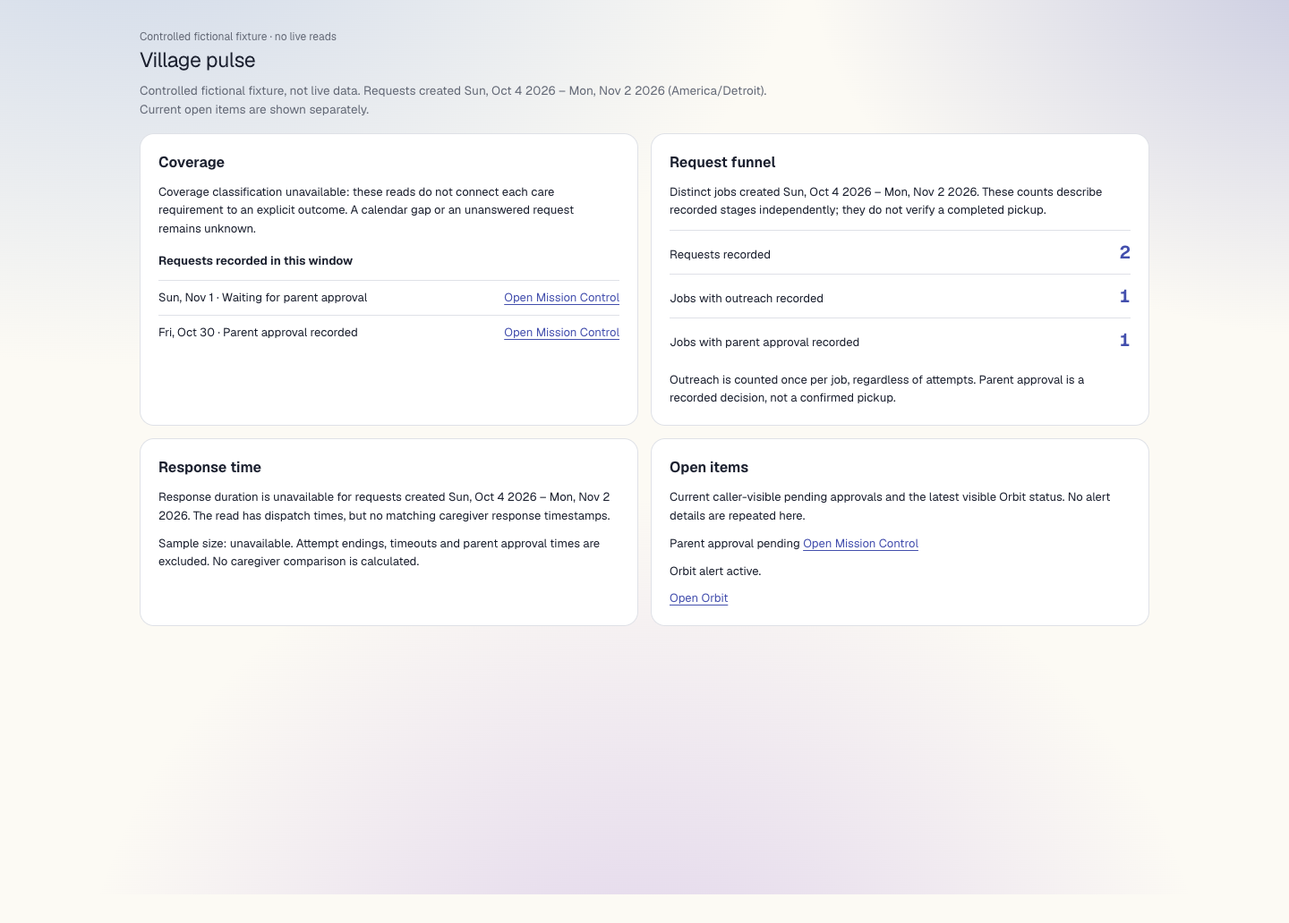
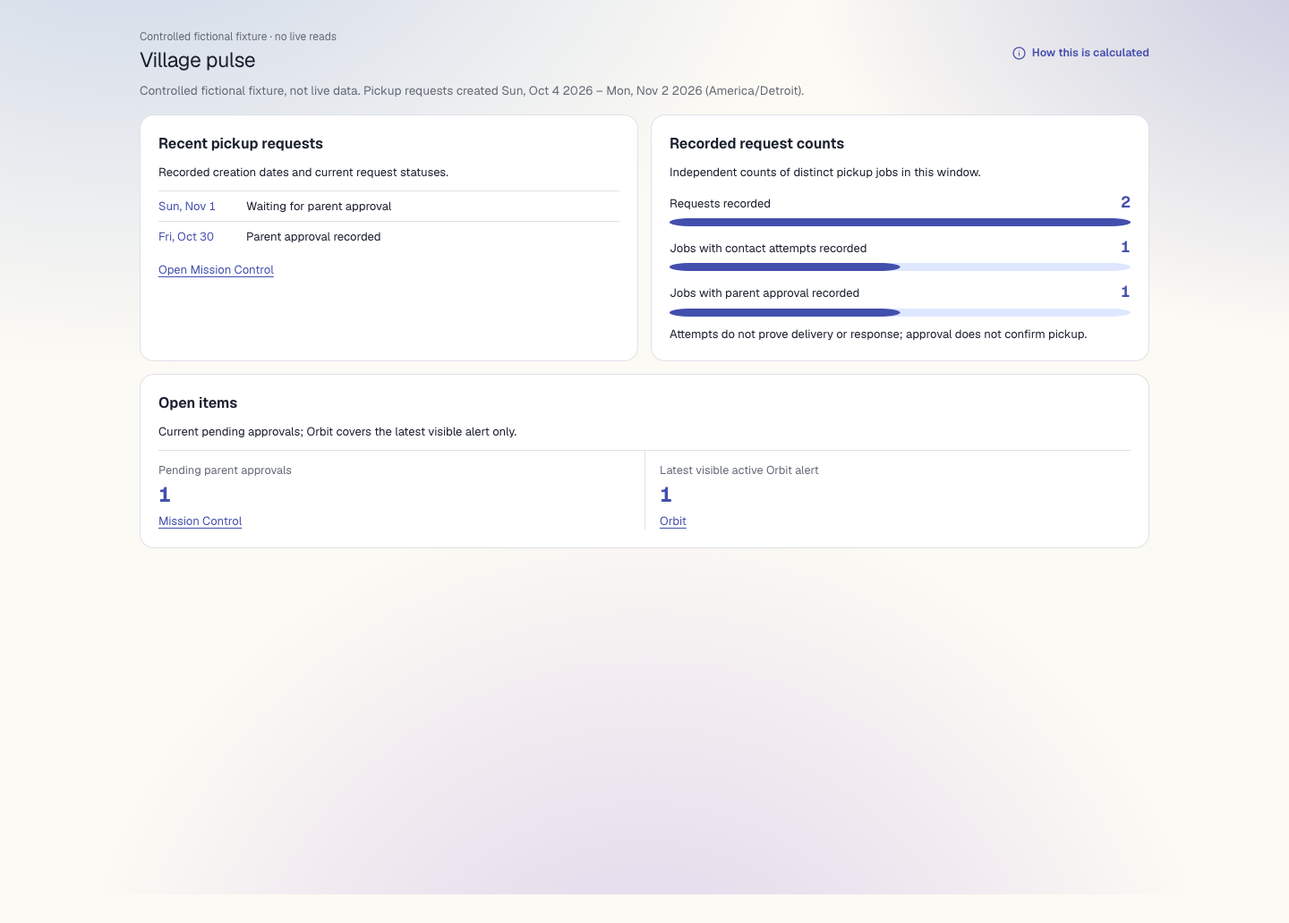
Refine Village pulse and reject stale Orbit status

diff --git a/web/src/features/mission-control/pulse/VillagePulse.tsx b/web/src/features/mission-control/pulse/VillagePulse.tsx
@@ -4,8 +4,9 @@ import { useOrbit, useOrbitState } from '@/features/orbit/runtime'
 import type { OrbitController } from '@/features/orbit/controller'
 import type { StoredMissionControl, StoredRun } from '@/lib/frontendData/deliveredAdapter'
 import { formatDay, localDay } from '@/features/calendar/time'
-import { Surface } from '@/components/fg/primitives'
+import { Icon, Surface } from '@/components/fg/primitives'
 import { jobCreatedAt, pulseCohort, pulseWindow, recordedJobStatus } from './model'
+import { orbitPulseRead } from './orbitPulseRead'
 import './village-pulse.css'
 
 export type PulseRead<T> = { kind: 'loading' } | { kind: 'ready'; value: T } | { kind: 'refused' } | { kind: 'failed' }
@@ -19,6 +20,18 @@ function ReadBoundary({ state, subject }: { state: PulseRead<unknown>; subject: 
   return null
 }
 
+function CalculationHelp() {
+  return <details className="vp-help">
+    <summary><Icon.info /><span>How this is calculated</span></summary>
+    <div className="vp-help-content" role="note">
+      <p><strong>Recent requests.</strong> Only visible pickup jobs with a recorded creation time in the last 30 America/Detroit calendar dates enter the dated list. Undated jobs are counted separately. These reads do not link care requirements to explicit outcomes, so they cannot classify coverage.</p>
+      <p><strong>Recorded counts.</strong> Each bar counts distinct jobs from that same cohort. A job counts once if it has a recorded contact attempt, and once if it has a parent approval confirmation. Attempt time does not prove delivery or response; approval does not confirm pickup.</p>
+      <p><strong>Response time.</strong> No matching caregiver response timestamp is exposed. Attempt endings, timeouts and parent approval times cannot supply one, so no duration or sample is calculated.</p>
+      <p><strong>Open items.</strong> Pending approvals use current visible pickup job status. Orbit shows only the latest visible alert’s status. A failed or refused read has no current count, even when an older status remains cached.</p>
+    </div>
+  </details>
+}
+
 /** All quantities come from caller-visible, recorded rows. This view makes no read or mutation. */
 export function VillagePulseView({ jobs, orbit, now, sourceLabel = 'Stored demo records visible to this perspective' }: PulseProps) {
   const window = pulseWindow(now)
@@ -26,40 +39,41 @@ export function VillagePulseView({ jobs, orbit, now, sourceLabel = 'Stored demo 
   const cohort = jobs.kind === 'ready' ? pulseCohort(jobs.value, window) : null
   const pending = jobs.kind === 'ready' ? jobs.value.filter(run => run.job.type === 'PICKUP' && run.job.status === 'awaiting_approval') : []
   const activeOrbit = orbit.kind === 'ready' && orbit.value.status === 'ACTIVE'
+  const counts = cohort ? [
+    { label: 'Requests recorded', value: cohort.requests },
+    { label: 'Jobs with contact attempts recorded', value: cohort.withContactAttempts },
+    { label: 'Jobs with parent approval recorded', value: cohort.withParentApproval },
+  ] : []
   return <section className="vp" aria-label="Village pulse">
-    <header className="vp-heading"><h2>Village pulse</h2><p>{sourceLabel}. Requests created {label} (America/Detroit). Current open items are shown separately.</p></header>
+    <header className="vp-heading"><div><h2>Village pulse</h2><p>{sourceLabel}. Pickup requests created {label} (America/Detroit).</p></div><CalculationHelp /></header>
     <div className="vp-grid">
-      <Surface className="vp-panel" role="region" aria-label="Coverage"><h3>Coverage</h3>
+      <Surface className="vp-panel" role="region" aria-label="Recent pickup requests"><h3>Recent pickup requests</h3>
         <ReadBoundary state={jobs} subject="request records" />
         {jobs.kind === 'ready' && <>
-          <p>Coverage classification unavailable: these reads do not connect each care requirement to an explicit outcome. A calendar gap or an unanswered request remains unknown.</p>
-          <h4>Requests recorded in this window</h4>
-          {!cohort?.jobs.length ? <p className="vp-empty">No dated pickup requests are available in this window.</p> : <ul className="vp-requests">{cohort.jobs.map(run => <li key={run.job.id}><span><time dateTime={jobCreatedAt(run)!}>{formatDay(localDay(jobCreatedAt(run)!))}</time> · {recordedJobStatus(run.job.status)}</span><a href="#/mission-control">Open Mission Control</a></li>)}</ul>}
-          {!!cohort?.undated && <p>{cohort.undated} visible request {cohort.undated === 1 ? 'has' : 'have'} no recorded creation time and cannot enter this dated view.</p>}
+          <p>Recorded creation dates and current request statuses.</p>
+          {!cohort?.jobs.length ? <p className="vp-empty">No dated pickup requests are available in this window.</p> : <>
+            <ul className="vp-requests">{cohort.jobs.slice(0, 5).map(run => <li key={run.job.id}><time dateTime={jobCreatedAt(run)!}>{formatDay(localDay(jobCreatedAt(run)!))}</time><span>{recordedJobStatus(run.job.status)}</span></li>)}</ul>
+            {cohort.jobs.length > 5 && <p>{cohort.jobs.length - 5} more dated {cohort.jobs.length - 5 === 1 ? 'request' : 'requests'} in this window.</p>}
+            <a href="#/mission-control">Open Mission Control</a>
+          </>}
+          {!!cohort?.undated && <p>{cohort.undated} visible pickup {cohort.undated === 1 ? 'request has' : 'requests have'} no recorded creation time and cannot enter this dated list.</p>}
         </>}
       </Surface>
 
-      <Surface className="vp-panel" role="region" aria-label="Request funnel"><h3>Request funnel</h3>
+      <Surface className="vp-panel" role="region" aria-label="Recorded request counts"><h3>Recorded request counts</h3>
         <ReadBoundary state={jobs} subject="request records" />
         {jobs.kind === 'ready' && (cohort?.jobs.length ? <>
-          <p>Distinct jobs created {label}. These counts describe recorded stages independently; they do not verify a completed pickup.</p>
-          <dl className="vp-counts"><div><dt>Requests recorded</dt><dd>{cohort.requests}</dd></div><div><dt>Jobs with outreach recorded</dt><dd>{cohort.withOutreach}</dd></div><div><dt>Jobs with parent approval recorded</dt><dd>{cohort.withParentApproval}</dd></div></dl>
-          <p>Outreach is counted once per job, regardless of attempts. Parent approval is a recorded decision, not a confirmed pickup.</p>
+          <p>Independent counts of distinct pickup jobs in this window.</p>
+          <dl className="vp-counts">{counts.map(metric => <div key={metric.label}><div className="vp-count-head"><dt>{metric.label}</dt><dd>{metric.value}</dd></div><svg viewBox="0 0 100 9" preserveAspectRatio="none" role="img" aria-label={`${metric.label}: ${metric.value} of ${cohort.requests} jobs`}><rect className="vp-bar-track" x="0" y="0" width="100" height="9" rx="4.5"/><rect className="vp-bar-fill" x="0" y="0" width={metric.value / cohort.requests * 100} height="9" rx="4.5"/></svg></div>)}</dl>
+          <p>Attempts do not prove delivery or response; approval does not confirm pickup.</p>
         </> : <p className="vp-empty">No dated pickup requests are available in this window.</p>)}
       </Surface>
 
-      <Surface className="vp-panel" role="region" aria-label="Response time"><h3>Response time</h3>
-        <ReadBoundary state={jobs} subject="request records" />
-        {jobs.kind === 'ready' && (cohort?.jobs.length ? <><p>Response duration is unavailable for requests created {label}. The read has dispatch times, but no matching caregiver response timestamps.</p><p>Sample size: unavailable. Attempt endings, timeouts and parent approval times are excluded. No caregiver comparison is calculated.</p></> : <p className="vp-empty">No dated pickup requests are available in this window.</p>)}
-      </Surface>
-
-      <Surface className="vp-panel" role="region" aria-label="Open items"><h3>Open items</h3>
-        <p>Current caller-visible pending approvals and the latest visible Orbit status. No alert details are repeated here.</p>
-        <ReadBoundary state={jobs} subject="approval records" />
-        {jobs.kind === 'ready' && pending.length > 0 && <ul className="vp-open">{pending.map(run => <li key={run.job.id}>Parent approval pending <a href="#/mission-control">Open Mission Control</a></li>)}</ul>}
-        <ReadBoundary state={orbit} subject="Orbit status" />
-        {activeOrbit && <p className="vp-open">Orbit alert active. <a href="#/orbit">Open Orbit</a></p>}
-        {jobs.kind === 'ready' && !pending.length && orbit.kind === 'ready' && !activeOrbit && <p className="vp-empty">No records are available to this view. The Orbit read covers the latest visible alert only.</p>}
+      <Surface className="vp-panel vp-panel-open" role="region" aria-label="Open items"><h3>Open items</h3>
+        <p>Current pending approvals; Orbit covers the latest visible alert only.</p>
+        <div className="vp-tiles"><div className="vp-tile"><span>Pending parent approvals</span><ReadBoundary state={jobs} subject="approval records" />{jobs.kind === 'ready' && <><strong>{pending.length}</strong><a href="#/mission-control">Mission Control</a></>}</div>
+          <div className="vp-tile"><span>Latest visible active Orbit alert</span><ReadBoundary state={orbit} subject="Orbit status" />{orbit.kind === 'ready' && <><strong>{activeOrbit ? 1 : 0}</strong><a href="#/orbit">Orbit</a></>}</div></div>
+        {jobs.kind === 'ready' && !pending.length && orbit.kind === 'ready' && !activeOrbit && <p className="vp-empty">No current open item is available in these reads.</p>}
       </Surface>
     </div>
   </section>
@@ -67,10 +81,7 @@ export function VillagePulseView({ jobs, orbit, now, sourceLabel = 'Stored demo 
 
 function OrbitPulse({ controller, jobs, now }: { controller: OrbitController; jobs: PulseRead<StoredRun[]>; now: number }) {
   const state = useOrbitState(controller)
-  const orbit: PulseRead<PulseOrbit> = state.phase === 'loading' ? { kind: 'loading' }
-    : state.phase === 'unavailable' ? { kind: /not shared|unauthorized/i.test(state.error) ? 'refused' : 'failed' }
-      : { kind: 'ready', value: { alertId: state.status?.alertId ?? null, status: state.status?.status ?? null } }
-  return <VillagePulseView jobs={jobs} orbit={orbit} now={now} />
+  return <VillagePulseView jobs={jobs} orbit={orbitPulseRead(state)} now={now} />
 }
 
 export function VillagePulse({ result }: { result: { loading: boolean; error?: { message: string }; data?: { frontendSnapshot: StoredMissionControl } } }) {

diff --git a/web/src/features/mission-control/pulse/pulse.test.tsx b/web/src/features/mission-control/pulse/pulse.test.tsx
@@ -1,8 +1,10 @@
 // @vitest-environment jsdom
 import { describe, expect, it } from 'vitest'
-import { render, screen, within } from '@testing-library/react'
+import { fireEvent, render, screen, within } from '@testing-library/react'
 import type { StoredRun } from '@/lib/frontendData/deliveredAdapter'
+import type { OrbitState } from '@/features/orbit/controller'
 import { VillagePulseView } from './VillagePulse'
+import { orbitPulseRead } from './orbitPulseRead'
 import { pulseCohort, pulseWindow, recordedJobStatus } from './model'
 
 function run(id: string, type = 'PICKUP', status = 'awaiting_approval', created = '2026-11-01T13:00:00Z', attempts = 1, approved = false): StoredRun {
@@ -15,46 +17,67 @@ function run(id: string, type = 'PICKUP', status = 'awaiting_approval', created 
 const now = Date.parse('2026-11-02T16:00:00Z')
 const orbit = { kind: 'ready' as const, value: { alertId: null, status: null } }
 
+function controllerState(error: string): Pick<OrbitState, 'phase' | 'status' | 'error'> {
+  // A refresh error leaves the previous ACTIVE status and phase intact in OrbitController.
+  return { phase: 'active', status: { alertId: 'cached-private-alert', status: 'ACTIVE' } as OrbitState['status'], error }
+}
+
 describe('Village pulse: caller-visible recorded measures', () => {
   it('uses one Detroit dated pickup-job cohort and counts distinct jobs, not attempts', () => {
     const window = pulseWindow(now)
     expect(window).toEqual({ from: '2026-10-04', through: '2026-11-02' })
     const jobs = [run('one'), run('one'), run('two', 'PICKUP', 'confirmed', '2026-10-04T04:00:00Z', 0, true), run('other', 'INVITATION'), run('old', 'PICKUP', 'pending', '2026-10-04T03:59:59Z')]
-    expect(pulseCohort(jobs, window)).toMatchObject({ requests: 2, withOutreach: 1, withParentApproval: 1 })
+    expect(pulseCohort(jobs, window)).toMatchObject({ requests: 2, withContactAttempts: 1, withParentApproval: 1 })
   })
 
-  it('labels approval as parent approval and does not derive a response duration from timeout', () => {
+  it('uses conservative attempt wording and independent accessible bars', () => {
     expect(recordedJobStatus('confirmed')).toBe('Parent approval recorded')
+    expect(recordedJobStatus('discovering')).toBe('Coordination in progress')
     render(<VillagePulseView now={now} jobs={{ kind: 'ready', value: [run('one')] }} orbit={orbit} />)
-    const response = screen.getByRole('region', { name: 'Response time' })
-    expect(within(response).getByText(/no matching caregiver response timestamps/i)).toBeInTheDocument()
-    expect(within(response).getByText(/Sample size: unavailable/)).toBeInTheDocument()
-    expect(response.textContent).not.toMatch(/60 minutes|1 hour/)
-    expect(screen.getByRole('region', { name: 'Coverage' })).toHaveTextContent('Coverage classification unavailable')
+    const counts = screen.getByRole('region', { name: 'Recorded request counts' })
+    expect(within(counts).getByText('Jobs with contact attempts recorded')).toBeInTheDocument()
+    expect(within(counts).getAllByRole('img')).toHaveLength(3)
+    expect(counts).toHaveTextContent('Attempts do not prove delivery or response')
+    expect(screen.queryByRole('region', { name: 'Response time' })).not.toBeInTheDocument()
+    fireEvent.click(screen.getByText('How this is calculated'))
+    expect(screen.getByRole('note')).toHaveTextContent('No matching caregiver response timestamp is exposed')
   })
 
   it('keeps panel refusals and failures distinct from empty data', () => {
     render(<VillagePulseView now={now} jobs={{ kind: 'refused' }} orbit={{ kind: 'failed' }} />)
-    expect(screen.getAllByText(/Access to request records is refused/)).toHaveLength(3)
+    expect(screen.getAllByText(/Access to request records is refused/)).toHaveLength(2)
     expect(screen.getByText(/Couldn’t load Orbit status/)).toBeInTheDocument()
-    expect(screen.queryByText(/No records are available/)).not.toBeInTheDocument()
+    expect(screen.queryByText(/No dated pickup requests/)).not.toBeInTheDocument()
   })
 
   it('keeps loading, empty, and failed reads explicit per panel', () => {
     const view = render(<VillagePulseView now={now} jobs={{ kind: 'loading' }} orbit={{ kind: 'loading' }} />)
-    // Open items reports its job and Orbit reads separately.
-    expect(screen.getAllByRole('status')).toHaveLength(5)
+    expect(screen.getAllByRole('status')).toHaveLength(4)
     view.rerender(<VillagePulseView now={now} jobs={{ kind: 'ready', value: [] }} orbit={orbit} />)
-    expect(screen.getAllByText('No dated pickup requests are available in this window.')).toHaveLength(3)
+    expect(screen.getAllByText('No dated pickup requests are available in this window.')).toHaveLength(2)
     view.rerender(<VillagePulseView now={now} jobs={{ kind: 'failed' }} orbit={{ kind: 'failed' }} />)
-    expect(screen.getAllByRole('alert')).toHaveLength(5)
+    expect(screen.getAllByRole('alert')).toHaveLength(4)
     expect(screen.queryByText('Requests recorded')).not.toBeInTheDocument()
   })
 
-  it('shows only an active Orbit status link, never alert payload', () => {
+  it('rejects cached ACTIVE Orbit status after a refresh failure or refusal', () => {
+    for (const [error, kind] of [["Couldn't load Orbit right now.", 'failed'], ["This isn't shared with you.", 'refused']] as const) {
+      const result = orbitPulseRead(controllerState(error))
+      expect(result).toEqual({ kind })
+      const view = render(<VillagePulseView now={now} jobs={{ kind: 'ready', value: [] }} orbit={result} />)
+      const items = screen.getByRole('region', { name: 'Open items' })
+      expect(within(items).getByRole('alert')).toBeInTheDocument()
+      expect(items).not.toHaveTextContent('cached-private-alert')
+      expect(within(items).queryByRole('link', { name: 'Orbit' })).not.toBeInTheDocument()
+      expect(within(items).queryByText('1')).not.toBeInTheDocument()
+      view.unmount()
+    }
+  })
+
+  it('shows only an active latest Orbit count and link, never alert payload', () => {
     render(<VillagePulseView now={now} jobs={{ kind: 'ready', value: [] }} orbit={{ kind: 'ready', value: { alertId: 'private-id', status: 'ACTIVE' } }} />)
     const items = screen.getByRole('region', { name: 'Open items' })
-    expect(within(items).getByRole('link', { name: 'Open Orbit' })).toHaveAttribute('href', '#/orbit')
+    expect(within(items).getByRole('link', { name: 'Orbit' })).toHaveAttribute('href', '#/orbit')
     expect(items.textContent).not.toContain('private-id')
   })
 })

diff --git a/web/src/features/mission-control/pulse/village-pulse.css b/web/src/features/mission-control/pulse/village-pulse.css
@@ -1,20 +1,38 @@
 .vp{margin:0 0 24px;color:var(--fg-ink)}
-.vp-heading{margin:0 0 16px;max-width:70ch}
+.vp-heading{display:flex;align-items:flex-start;justify-content:space-between;gap:16px;margin:0 0 16px}
 .vp-heading h2{margin:0 0 6px;font-size:1.45rem;letter-spacing:-.02em}
 .vp-heading p{margin:0;color:var(--fg-muted);font-size:.85rem;line-height:1.55}
+.vp-help{position:relative;flex:none;font-size:.78rem}
+.vp-help summary{display:inline-flex;align-items:center;gap:6px;cursor:pointer;color:var(--fg-primary);list-style:none;font-weight:600}
+.vp-help summary::-webkit-details-marker{display:none}
+.vp-help summary svg{width:17px;height:17px}
+.vp-help summary:focus-visible{outline:2px solid var(--fg-focus);outline-offset:3px}
+.vp-help-content{position:absolute;z-index:20;right:0;top:calc(100% + 10px);width:min(390px,calc(100vw - 32px));padding:16px;background:var(--fg-surface);color:var(--fg-ink);border:1px solid var(--fg-border);border-radius:12px;box-shadow:0 12px 30px color-mix(in oklch,var(--fg-ink) 14%,transparent)}
+.vp-help-content p{margin:0 0 10px;color:var(--fg-ink);font-size:.78rem;line-height:1.55}
+.vp-help-content p:last-child{margin-bottom:0}
 .vp-grid{display:grid;grid-template-columns:repeat(2,minmax(0,1fr));gap:14px}
-.vp-panel{display:grid;align-content:start;gap:11px;min-width:0}
+.vp-panel{display:grid;align-content:start;gap:10px;min-width:0}
 .vp-panel h3{margin:0;font-size:1rem;font-weight:650}
-.vp-panel h4{margin:5px 0 0;font-size:.83rem;font-weight:650}
-.vp-panel p,.vp-panel li{margin:0;font-size:.82rem;line-height:1.55}
+.vp-panel p,.vp-panel li{margin:0;font-size:.82rem;line-height:1.5}
 .vp-panel [role=alert]{color:var(--fg-danger-ink)}
 .vp-panel [role=status],.vp-empty{color:var(--fg-muted)}
-.vp-panel a{color:var(--fg-primary);text-decoration:underline;text-underline-offset:3px}
+.vp-panel a{color:var(--fg-primary);text-decoration:underline;text-underline-offset:3px;font-size:.82rem;width:fit-content}
 .vp-panel a:focus-visible{outline:2px solid var(--fg-focus);outline-offset:3px}
-.vp-requests,.vp-open{list-style:none;padding:0;margin:0;display:grid;gap:9px}
-.vp-requests li{display:flex;flex-wrap:wrap;justify-content:space-between;gap:5px 12px;border-top:1px solid var(--fg-border);padding-top:9px}
-.vp-counts{margin:0;display:grid;gap:0}
-.vp-counts>div{display:flex;align-items:baseline;justify-content:space-between;gap:12px;border-top:1px solid var(--fg-border);padding:9px 0}
+.vp-requests{list-style:none;padding:0;margin:0;display:grid}
+.vp-requests li{display:grid;grid-template-columns:90px minmax(0,1fr);gap:8px;border-top:1px solid var(--fg-border);padding:7px 0}
+.vp-requests time{color:var(--fg-primary);font-variant-numeric:tabular-nums}
+.vp-counts{margin:0;display:grid;gap:10px}
+.vp-counts>div{display:grid;gap:5px}
+.vp-count-head{display:flex;align-items:baseline;justify-content:space-between;gap:12px}
 .vp-counts dt{font-size:.82rem;line-height:1.4}
-.vp-counts dd{margin:0;font-size:1.25rem;font-weight:650;font-variant-numeric:tabular-nums;color:var(--fg-primary)}
-@media(max-width:720px){.vp-grid{grid-template-columns:1fr}}
+.vp-counts dd{margin:0;font-size:1.1rem;font-weight:650;font-variant-numeric:tabular-nums;color:var(--fg-primary)}
+.vp-counts svg{display:block;width:100%;height:9px}
+.vp-bar-track{fill:var(--fg-selection)}
+.vp-bar-fill{fill:var(--fg-primary)}
+.vp-panel-open{grid-column:1/-1}
+.vp-tiles{display:grid;grid-template-columns:repeat(2,minmax(0,1fr));gap:0;border-top:1px solid var(--fg-border)}
+.vp-tile{display:grid;align-content:start;gap:6px;min-width:0;padding:12px 0 0}
+.vp-tile+.vp-tile{border-left:1px solid var(--fg-border);padding-left:16px}
+.vp-tile>span{font-size:.8rem;color:var(--fg-muted)}
+.vp-tile>strong{font-size:1.45rem;line-height:1.1;color:var(--fg-primary);font-variant-numeric:tabular-nums}
+@media(max-width:720px){.vp-heading{display:block}.vp-help{margin-top:9px}.vp-help-content{position:static;width:auto;margin-top:8px}.vp-grid{grid-template-columns:1fr}.vp-panel-open{grid-column:auto}.vp-tiles{grid-template-columns:1fr}.vp-tile+.vp-tile{border-left:0;border-top:1px solid var(--fg-border);padding:12px 0 0;margin-top:12px}}

diff --git a/web/src/features/mission-control/pulse/model.ts b/web/src/features/mission-control/pulse/model.ts
@@ -25,7 +25,7 @@ export function pulseCohort(runs: StoredRun[], window: PulseWindow) {
   return {
     jobs,
     requests: jobs.length,
-    withOutreach: jobs.filter(run => run.attempts.some(attempt => Number.isFinite(Date.parse(attempt.at)))).length,
+    withContactAttempts: jobs.filter(run => run.attempts.some(attempt => Number.isFinite(Date.parse(attempt.at)))).length,
     withParentApproval: jobs.filter(run => Boolean(run.job.confirmation?.id)).length,
     undated: new Set(runs.filter(run => run.job.type === 'PICKUP' && !jobCreatedAt(run)).map(run => run.job.id)).size,
   }
@@ -34,7 +34,7 @@ export function pulseCohort(runs: StoredRun[], window: PulseWindow) {
 export function recordedJobStatus(status: string): string {
   return ({
     pending: 'Request recorded',
-    discovering: 'Outreach in progress',
+    discovering: 'Coordination in progress',
     awaiting_approval: 'Waiting for parent approval',
     confirmed: 'Parent approval recorded',
     failed: 'Coordination ended',

diff --git a/web/src/features/mission-control/pulse/orbitPulseRead.ts b/web/src/features/mission-control/pulse/orbitPulseRead.ts
@@ -1,0 +1,10 @@
+import type { OrbitState } from '@/features/orbit/controller'
+import type { PulseOrbit, PulseRead } from './VillagePulse'
+
+/** Refresh errors can leave a previous ACTIVE status in the controller. Never call it current. */
+export function orbitPulseRead(state: Pick<OrbitState, 'phase' | 'status' | 'error'>): PulseRead<PulseOrbit> {
+  if (state.error.trim()) return { kind: /isn't shared|not shared|unauthorized|read-only/i.test(state.error) ? 'refused' : 'failed' }
+  if (state.phase === 'unavailable') return { kind: 'failed' }
+  if (state.phase === 'loading') return { kind: 'loading' }
+  return { kind: 'ready', value: { alertId: state.status?.alertId ?? null, status: state.status?.status ?? null } }
+}

diff --git a/web/evidence/village-pulse/READ-INVENTORY.md b/web/evidence/village-pulse/READ-INVENTORY.md
@@ -4,9 +4,9 @@ All graph reads use the signed-in perspective's in-memory bearer through the exi
 
 | Proposed panel | Existing read and fields | Window and calculation | Decision |
 | --- | --- | --- | --- |
-| Coverage | `coordinationJobs` gives `id`, `status`, `idempotencyKey`, evaluations and confirmation; `jobTimeline` gives `JOB_CREATED` time. Calendar reads do not link a care requirement, its needed coverage period, and a completed outcome to a job. The key is not a public request-date field. | No defensible covered/pending/uncovered denominator or upcoming-request date exists. Show caller-visible requests **created** in the displayed Detroit date window with their recorded statuses. Do not classify a calendar gap, silence or absent confirmation as uncovered. | No coverage percentage or covered/pending/uncovered chart. Recent requests only. |
-| Request funnel | `coordinationJobs(childId)` IDs, `type`, current status and confirmation; `attempts(jobId)` IDs and dispatch `at`; `jobTimeline(jobId)` has `JOB_CREATED` at. The existing job query is extended to select the already-defined `type` field. | Cohort: distinct visible **PICKUP** jobs with a recorded `JOB_CREATED` on the last 30 Detroit calendar dates, inclusive. Count distinct jobs in the cohort; then independently count jobs with at least one recorded attempt and jobs with a recorded parent-approval confirmation. These are job counts, not attempt counts or verified pickups. Jobs without creation time cannot enter this dated cohort. | Supported as three clearly named counts, with no conversion claim. |
-| Response time | `attempts` exposes dispatch `at`, `closedAt`, `closedReason`; evaluations expose `acceptedVia` but no reply instant. `jobTimeline` has attempt opened/closed and parent `CONFIRMATION`, but no caregiver response event. | A duration requires dispatch and the matching caregiver response time. Attempt closure or timeout is not a response. No sample size or duration can be calculated. | Unavailable read gap; never substitute close or approval time. |
-| Open items | Jobs expose current `status`; `awaiting_approval` is explicitly waiting on a parent under `docs/contracts/pickup-job.md`. The Orbit controller's existing `orbitStatus` read exposes `alertId` and `status` for the **latest visible** alert. | Current caller-visible items, not a historical window. Show pending-approval jobs and the latest active Orbit status only. Link to Mission Control and Orbit. No alert message, photo, place, descriptors or controls. A null latest status cannot prove that no older active alert exists. | Supported with the latest-alert limit stated. |
+| Coverage / recent requests | `coordinationJobs` gives `id`, `status`, `idempotencyKey`, evaluations and confirmation; `jobTimeline` gives `JOB_CREATED` time. Calendar reads do not link a care requirement, its needed coverage period, and a completed outcome to a job. The key is not a public request-date field. | No defensible covered/pending/uncovered denominator or upcoming-request date exists. Show caller-visible requests **created** in the displayed Detroit date window with their recorded statuses. Do not classify a calendar gap, silence or absent confirmation as uncovered. | **Recent pickup requests** compact dated list only; no coverage percentage or classification. |
+| Recorded request counts | `coordinationJobs(childId)` IDs, `type`, current status and confirmation; `attempts(jobId)` IDs and attempt `at`; `jobTimeline(jobId)` has `JOB_CREATED` at. The existing job query is extended to select the already-defined `type` field. | Cohort: distinct visible **PICKUP** jobs with a recorded `JOB_CREATED` on the last 30 Detroit calendar dates, inclusive. Count distinct jobs in the cohort; then independently count jobs with at least one recorded contact attempt and jobs with a recorded parent-approval confirmation. The attempt timestamp proves an attempt was recorded, not delivery or response. These are job counts, not attempt counts or verified pickups. Jobs without creation time cannot enter this dated cohort. | Three independent horizontal bars, not conversion stages. |
+| Response time | `attempts` exposes attempt `at`, `closedAt`, `closedReason`; evaluations expose `acceptedVia` but no reply instant. `jobTimeline` has attempt opened/closed and parent `CONFIRMATION`, but no caregiver response event. | A duration requires an attempt/contact instant and the matching actual caregiver response time. Attempt closure or timeout is not a response. No sample size or duration can be calculated. | **Omitted** from the pulse; read gap explained in the accessible calculation disclosure and [proposed data contract](../../../docs/contracts/village-pulse-data.md). |
+| Open items | Jobs expose current `status`; `awaiting_approval` is explicitly waiting on a parent under `docs/contracts/pickup-job.md`. The Orbit controller's existing `orbitStatus` read exposes `alertId` and `status` for the **latest visible** alert. The controller can retain a cached status while a refresh puts an error in `state.error` without changing `phase`. | Current caller-visible items, not a historical window. Show a count tile for pending-approval jobs and a 0/1 tile for the latest visible active Orbit status. Error/refusal takes precedence over cached status, leaving no current count. Link to Mission Control and Orbit only on ready reads. No alert message, photo, place, descriptors or controls. A null latest status cannot prove that no older active alert exists. | Supported with the latest-alert limit stated and a failed/refused read state. |
 
-The dates and cohort are displayed in `America/Detroit`. A stored demo record is labelled as such. Each panel has its own loading, empty, refused and failed handling; an unavailable measure is never rendered as zero.
+The dates and cohort are displayed in `America/Detroit`. A stored demo record is labelled as such. Each panel has its own loading, empty, refused and failed handling; an unavailable measure is never rendered as zero. Detailed limits are also in the accessible “How this is calculated” disclosure.

diff --git a/docs/contracts/village-pulse-data.md b/docs/contracts/village-pulse-data.md
@@ -1,0 +1,38 @@
+# Village pulse demo data contract (proposed seed input)
+
+This is input for a later backend seed PR. It authorizes no schema, resolver, migration, reset, outreach, or database change in the Village pulse web PR. All people and records are fictional. Seed work must keep caller-scoped RLS and test-responder transport boundaries.
+
+## Display window and units
+
+- Provide roughly 30 America/Detroit calendar dates of fictional pickup coordination history for a parent such as Kendra viewing Nora. Store actual instants with offsets or UTC; the UI converts them to Detroit dates. Include a few records on both sides of a Detroit midnight and an older record outside the window to exercise the boundary.
+- Each request is one `PICKUP` coordination job with a stable ID, child, recorded `JOB_CREATED.at`, current status, and any recorded parent confirmation. Include a small mix of pending, discovering, awaiting approval, confirmed parent approval, and ended coordination; do not seed a pickup completion unless a separate recorded outcome supports it.
+- Contact attempts must attach to a job and retain their own ID, channel, recorded attempt instant, destination mode, and optional closure reason/time. A recorded attempt is not proof of delivery, contact, response, or pickup. Several attempts on one job must still count as one job in the pulse bar.
+- To support a future response-time measure, each actual caregiver response needs its own recorded response ID, matching attempt/job, responder identity visible under RLS, response kind, and **responseAt** instant. A timeout or no-answer closure must have no responseAt. The future UI should match dispatch/contact to that response, disclose the observation window and sample size, and avoid caregiver rankings.
+- If coverage is desired later, explicitly record each care requirement's child, required date/time window, and outcome evidence linked to a job. A calendar gap, free-time record, parent approval, or missing confirmation cannot by itself mean uncovered or covered.
+- Include a few parent approvals and non-approvals as explicit decisions. Do not translate approval into confirmed pickup. Preserve status history and event timestamps so the story can be audited.
+- For Open items, provide one current pending parent approval and optionally one active Orbit alert in a controlled fictional run. Orbit's caller-scoped status must remain separate from its sensitive payload. A latest-alert read does not prove there are no other active alerts.
+
+Suggested **fictional seed plan**, relative to a documented Detroit demo anchor date `D` (not records claimed to exist now):
+
+| Created on | Pickup job history to record | Honest current display |
+| --- | --- | --- |
+| D−29 | Request, no contact attempt yet | Request recorded |
+| D−25 | Request, two contact attempts, both closed with recorded no-answer/timeouts | Coordination ended; no response duration |
+| D−21 | Request, contact attempt, actual caregiver response with `responseAt`, parent decision still pending | Waiting for parent approval |
+| D−17 | Request, contact attempt, actual caregiver response, explicit parent approval | Parent approval recorded; pickup completion unknown |
+| D−12 | Request, contact attempt, explicit caregiver decline with `responseAt`, further coordination | Recorded response; no inferred pickup |
+| D−7 | Request, contact attempt still open, no response | Coordination in progress; no reply yet |
+| D−3 | Request with a recorded parent refusal or cancellation decision and its event time | Explicit decision only |
+| D−1 | Request, response, current `awaiting_approval` state | Pending parent approval tile |
+
+The seed PR should choose supported state/event names, document the actual anchor and instants, and omit any pattern that its reviewed schema cannot represent. The table defines useful proof coverage; it is not a claim that these records or fields are live.
+
+## Fields available to this web PR
+
+`coordinationJobs(childId)` exposes job ID, type, current status, version, evaluations, and confirmation. `jobTimeline(jobId)` exposes `JOB_CREATED.at` and other recorded moments. `attempts(jobId)` exposes attempt `at`, `closedAt`, and `closedReason`. Orbit's existing controller exposes the latest visible alert status. All reads run as the signed-in caller.
+
+The following are **not** currently exposed as a supported pulse read: a caregiver response timestamp paired with an attempt; a linked care-requirement/outcome denominator; an explicit request-for-pickup date suitable for “upcoming” classification; a list of all active Orbit alerts; and a deep link to a selected Mission Control job. The web UI therefore omits response time and coverage percentages, labels its bars as recorded job counts, and links to the existing surfaces without claiming per-record navigation.
+
+## Seed acceptance for a separate PR
+
+A seed PR should document fictional provenance, exact inserted records and time zone, per-person read probes for parent and limited perspectives, and proof that test-responder transport remains the only outreach path. It should not change the pulse UI's present-tense claims until the new read contract and its authorization have been reviewed. No seed or reset is part of this contract-only addition.

diff --git a/web/evidence/village-pulse/README.md b/web/evidence/village-pulse/README.md
@@ -7,8 +7,12 @@ These captures show the controlled fictional fixture in `web/src/features/missio
 | Light | [fixture-light-1440.png](fixture-light-1440.png) | [fixture-light-390.png](fixture-light-390.png) |
 | Dark | [fixture-dark-1440.png](fixture-dark-1440.png) | [fixture-dark-390.png](fixture-dark-390.png) |
 
+The [open calculation disclosure on phone](fixture-help-390.png) shows the detailed limitations without clipping.
+
 Reviewed with `playwright-cli` at both widths. The phone page had `scrollWidth === innerWidth === 390`; text remained readable without horizontal clipping. The only browser console error was the dev server's missing favicon. The preview entry is not included in `web/dist/` by the production Vite build.
 
-Impeccable's source scan reported no source findings. Its rendered scan flagged the cream page background. That color is the existing `--fg-canvas` token from the frozen design contract, so it was retained. Visual review found three weak points: year was absent from the window, “Open record” suggested a direct record link that the route does not support, and the mobile request rows placed links close to status text. The first two were corrected; the rows wrap the links onto their own line at phone width.
+Impeccable's source scan reported no source findings. Its first rendered scan flagged nested count cards and the cream background. The count tiles were flattened into the containing surface, clearing the nested-card finding. The remaining cream color is the existing `--fg-canvas` token from the frozen design contract. Visual review found three weak points: nested tile depth, a phone-width header that could crowd the calculation control, and long explanations ahead of the records. The tiles were flattened, the disclosure moves below the header copy on phone, and detailed limits now live inside the disclosure and read inventory.
 
 The live component reads only the selected signed-in perspective's existing Mission Control data and Orbit controller status. No live graph or shared database call was made for this review. Query and calculation limits are documented in [READ-INVENTORY.md](READ-INVENTORY.md).
+
+The default parallel web suite previously hit seven 5-second timeouts across Mission Control, Rosina, Today, and Village Rings. That run was a failure, not a passing check. The same suite passed with one worker; this limitation remains in the PR report.
